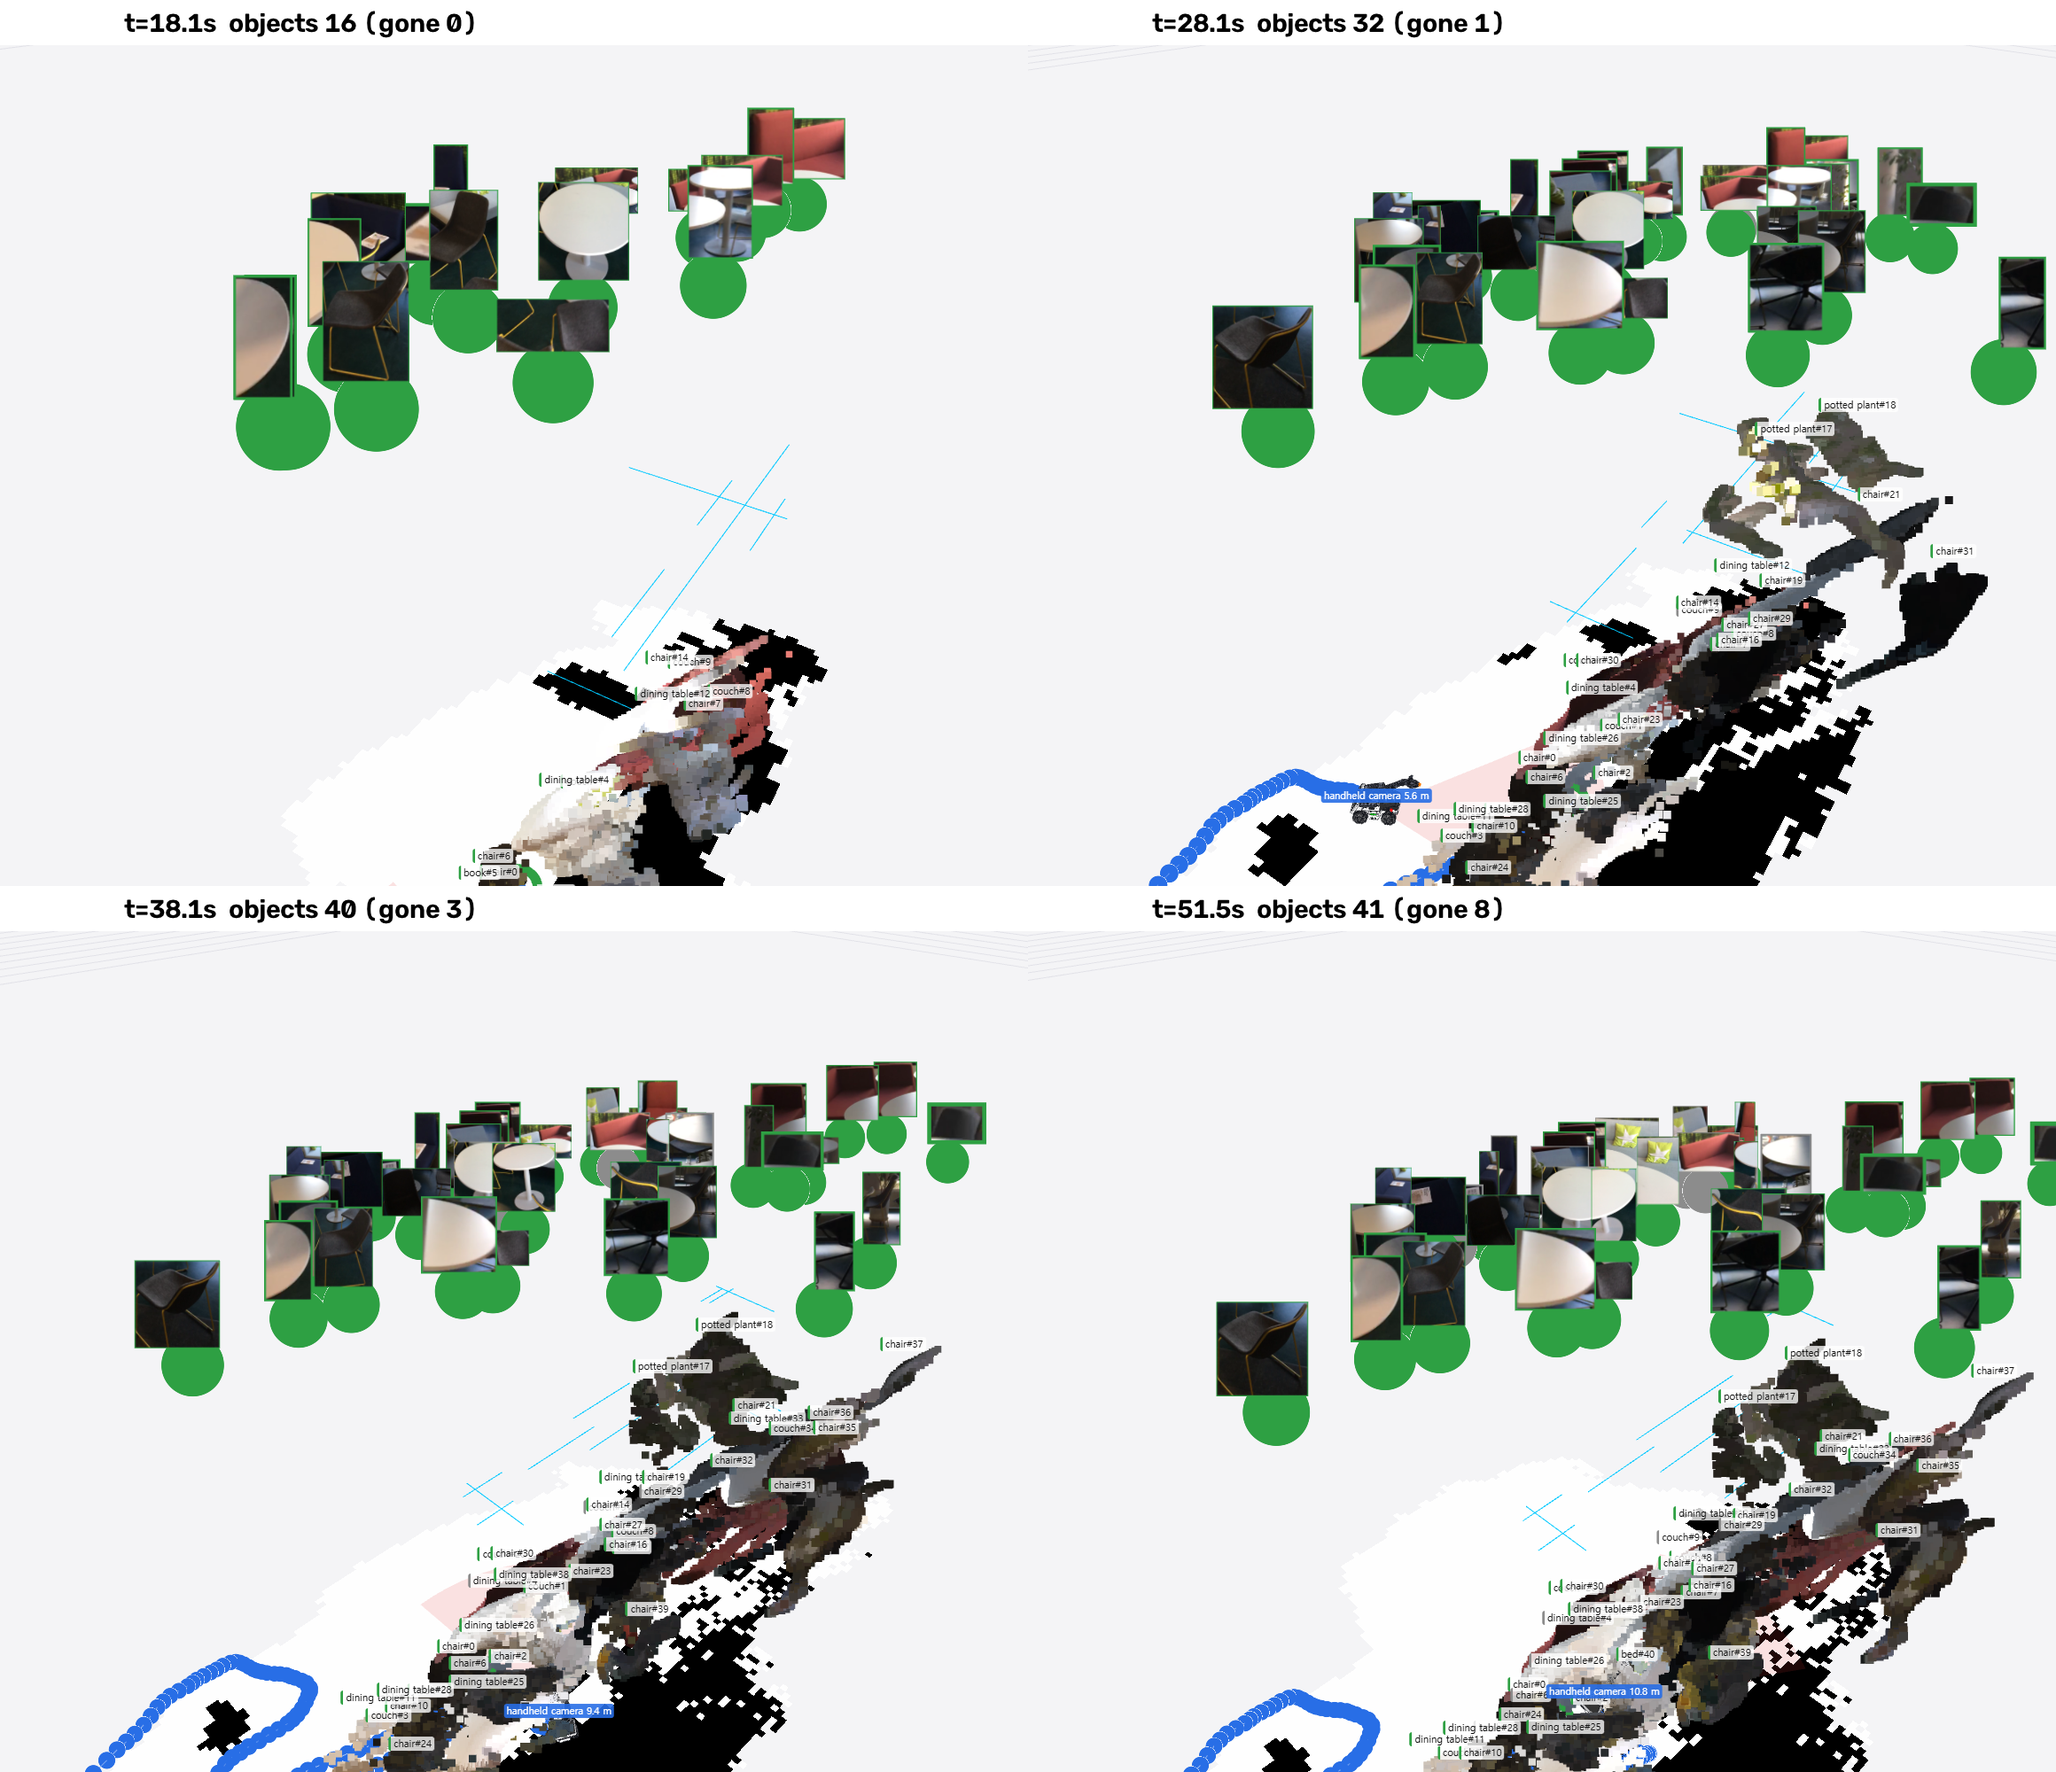
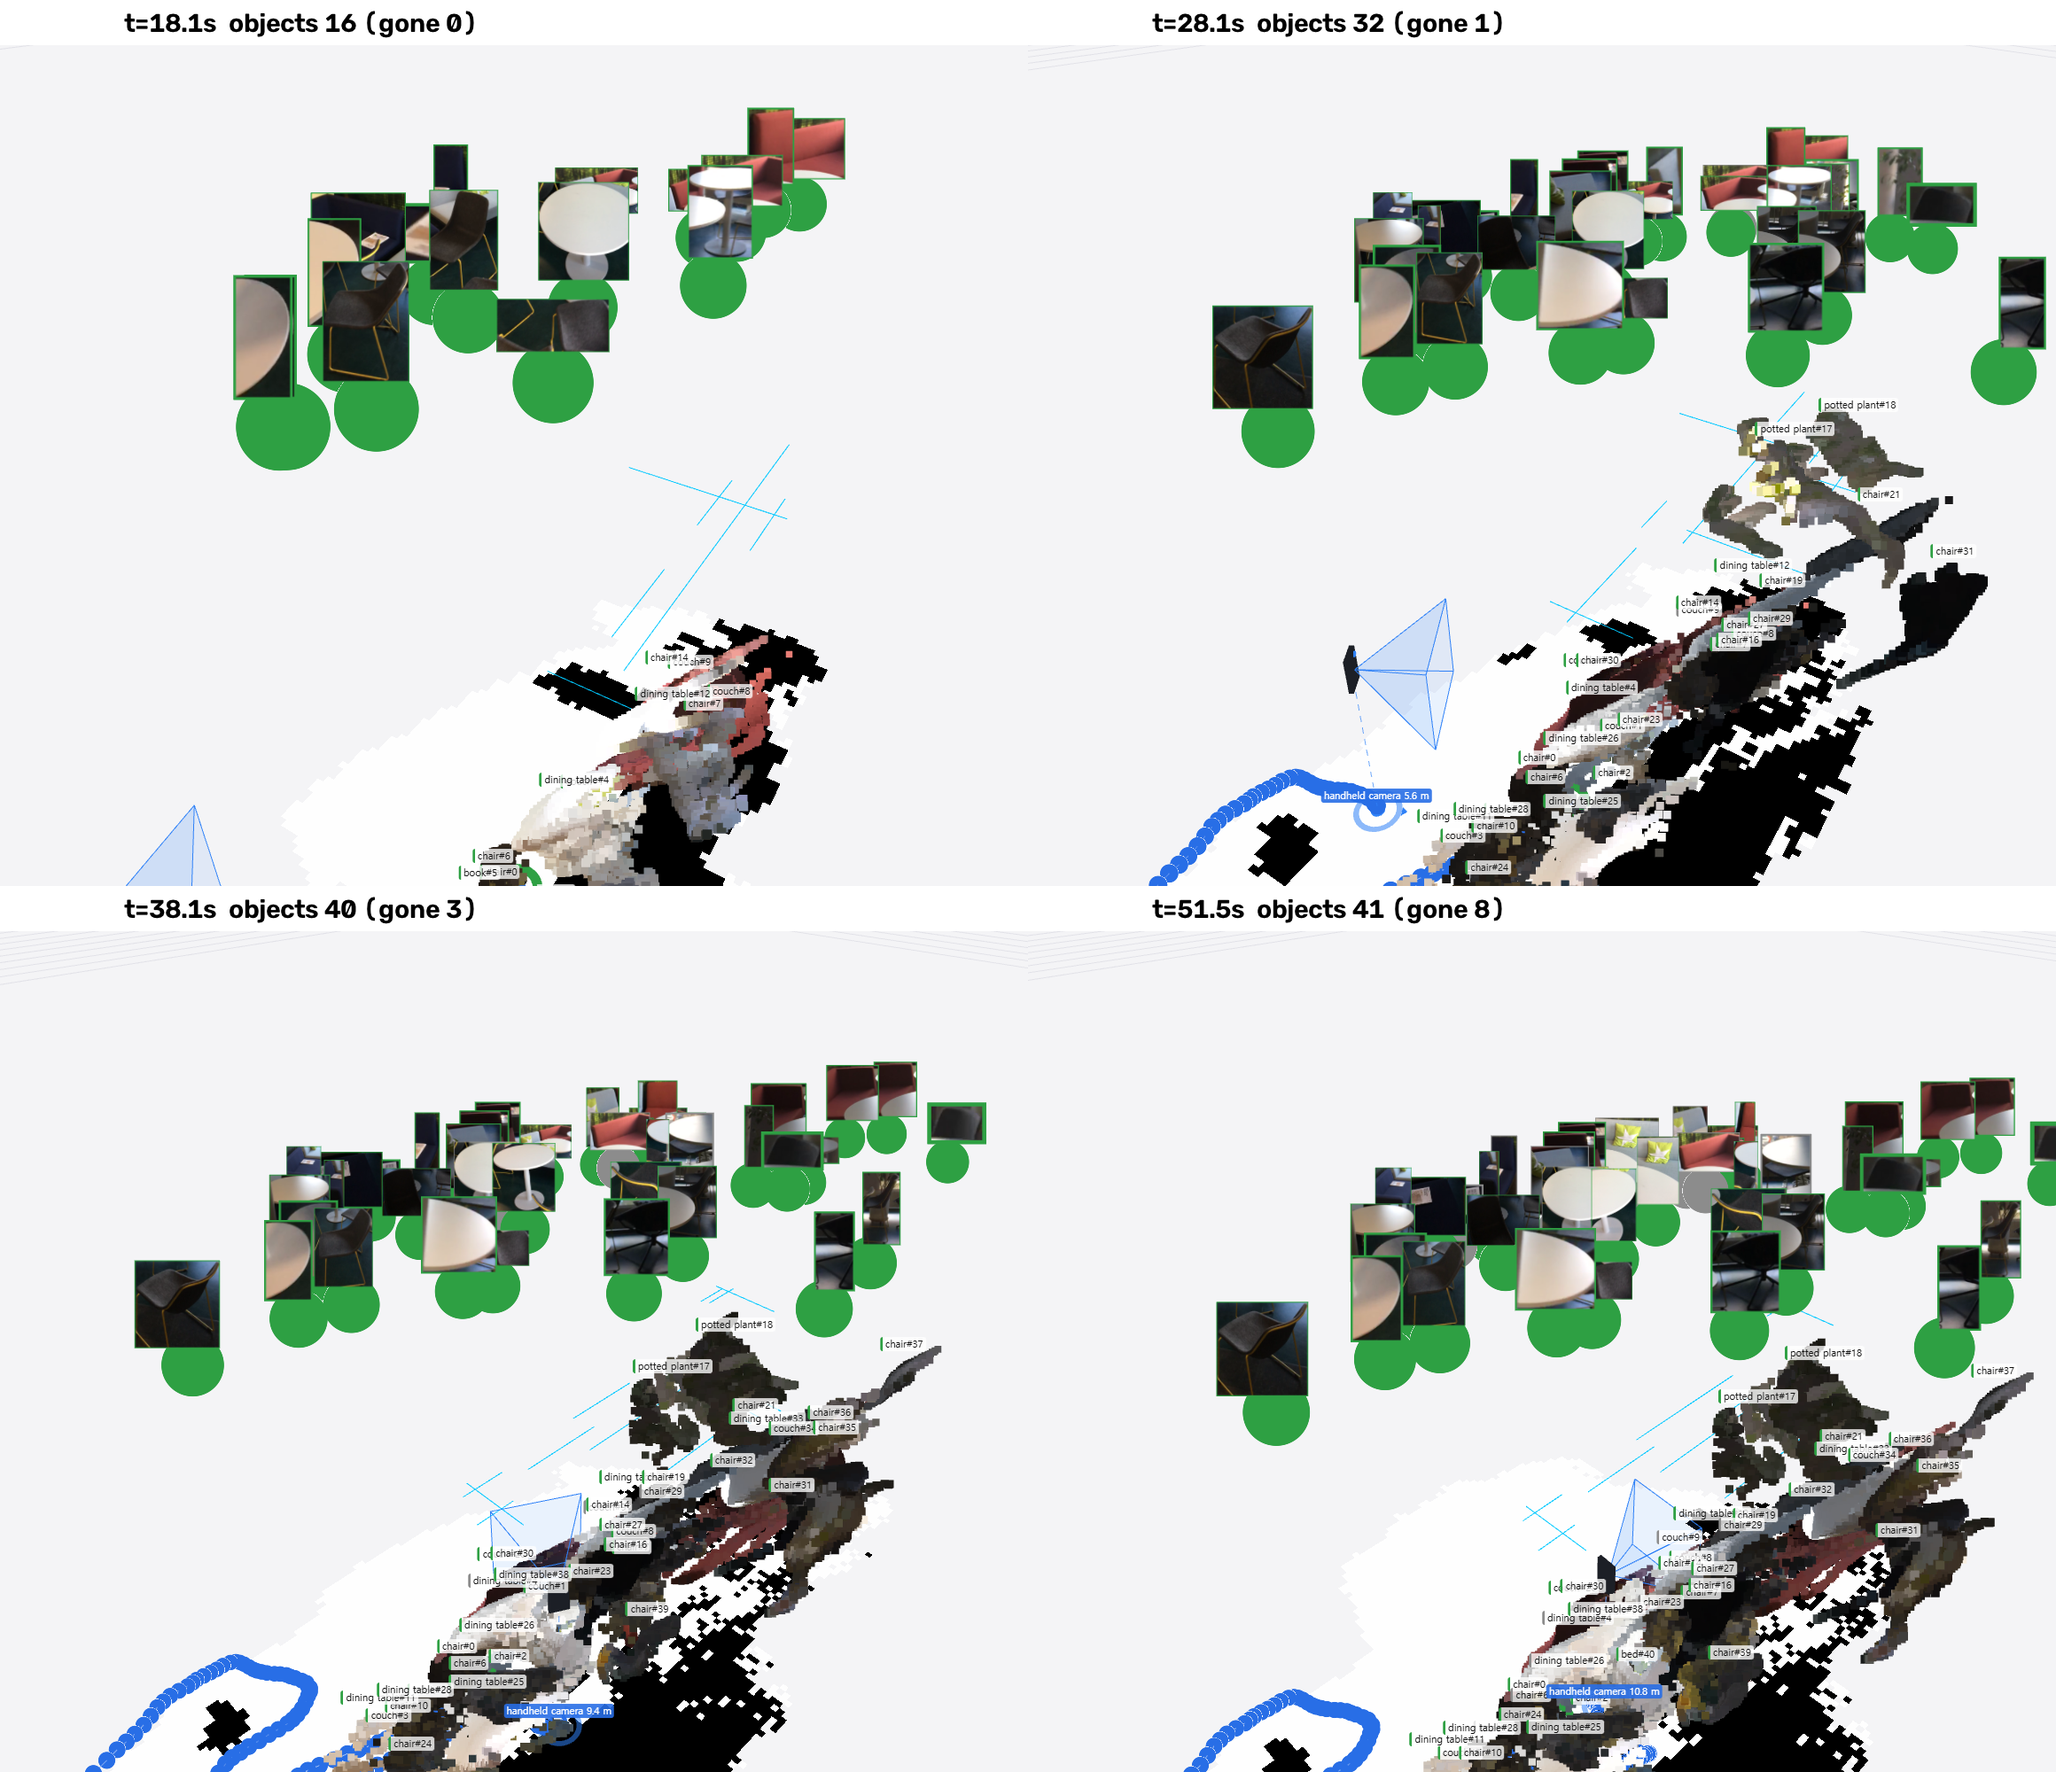
sgview: handheld camera marker (phone + view frustum + floor ring) instead of LIMO when robot is handheld

diff --git a/viewer/sgview/assets/index.html b/viewer/sgview/assets/index.html
@@ -849,7 +849,7 @@ function buildJointPanel() {
     panel.appendChild(row);
     $("js_" + n).oninput = e => { jointVal[n] = +e.target.value; setJoints({ [n]: jointVal[n] }); };
   }
-  $("jdetails").style.display = "";
+  if (!isHandheld()) $("jdetails").style.display = "";
   $("j_home").onclick = () => setJoints(robotModel.home);
 }
 function syncJointPanel() {
@@ -907,7 +907,7 @@ $("c_follow").onchange = () => {
 $("j_clear").onclick = clearEE;
 
 function attachRobotModel() {
-  if (!robotModel || !robotGrp) return;
+  if (!robotModel || !robotGrp || isHandheld()) return;
   robotGrp.remove(...robotGrp.children.filter(c => c.userData.fallback));   // the box/cone stand-in goes away
   if (!robotModel.root.parent) robotGrp.add(robotModel.root);
   robotModel.root.scale.setScalar(opt("n_rscale"));
@@ -1003,9 +1003,39 @@ function onPoseEvent(d) {
   invalidate();
 }
 
+// Handheld camera (view.json "robot": "handheld"): a phone with a view frustum at hand height, a drop line and a floor ring,
+// instead of the LIMO model.
+const isHandheld = () => /handheld/.test((view && view.robot) || "");
+function buildHandheld() {
+  const H = (view && view.cam_h) || 1.4, g = new THREE.Group(), ACC = 0x2f81f7;
+  const phone = new THREE.Mesh(new THREE.BoxGeometry(0.02, 0.09, 0.17), new THREE.MeshBasicMaterial({ color:0x1c1f26 }));
+
+  const lens = new THREE.Mesh(new THREE.CylinderGeometry(0.012, 0.012, 0.006, 20), new THREE.MeshBasicMaterial({ color:ACC }));
+  lens.rotation.z = Math.PI / 2; lens.position.set(0.013, 0.025, 0.06);
+  const L = 0.35, hw = L * Math.tan(Math.PI / 6), hh = hw * 16 / 9 * 0.56;   // portrait frustum, ~60° wide
+  const apex = new THREE.Vector3(0.012, 0, 0), c = [[L, -hw, -hh], [L, hw, -hh], [L, hw, hh], [L, -hw, hh]].map(p => new THREE.Vector3(...p));
+  const fg = new THREE.BufferGeometry(); fg.setFromPoints([apex, c[0], c[1], apex, c[1], c[2], apex, c[2], c[3], apex, c[3], c[0]]);
+  const faces = new THREE.Mesh(fg, new THREE.MeshBasicMaterial({ color:ACC, transparent:true, opacity:0.10, side:THREE.DoubleSide, depthWrite:false }));
+  const eg = new THREE.BufferGeometry(); eg.setFromPoints([apex, c[0], apex, c[1], apex, c[2], apex, c[3], c[0], c[1], c[1], c[2], c[2], c[3], c[3], c[0]]);
+  const edges = new THREE.LineSegments(eg, new THREE.LineBasicMaterial({ color:ACC }));
+  const dg = new THREE.BufferGeometry(); dg.setFromPoints([new THREE.Vector3(0, 0, H - 0.09), new THREE.Vector3(0, 0, 0.01)]);
+  const drop = new THREE.Line(dg, new THREE.LineDashedMaterial({ color:ACC, dashSize:0.06, gapSize:0.05, transparent:true, opacity:0.7 }));
+  drop.computeLineDistances();
+  const ring = new THREE.Mesh(new THREE.RingGeometry(0.13, 0.17, 40), new THREE.MeshBasicMaterial({ color:ACC, transparent:true, opacity:0.55, side:THREE.DoubleSide, depthWrite:false }));
+  ring.position.z = 0.012;
+  const dot = new THREE.Mesh(new THREE.CircleGeometry(0.05, 24), new THREE.MeshBasicMaterial({ color:ACC }));
+  dot.position.z = 0.013;
+  const arrow = new THREE.Shape(); arrow.moveTo(0.21, 0); arrow.lineTo(0.17, 0.035); arrow.lineTo(0.17, -0.035); arrow.lineTo(0.21, 0);
+  const head = new THREE.Mesh(new THREE.ShapeGeometry(arrow), new THREE.MeshBasicMaterial({ color:ACC, side:THREE.DoubleSide }));
+  head.position.z = 0.013;
+  const cam = new THREE.Group(); cam.add(phone, lens, faces, edges); cam.position.z = H; cam.scale.setScalar(1.6);   // the phone is tiny at room scale
+  g.add(cam, drop, ring, dot, head);
+  return g;
+}
 function buildRobot() {
   if (robotModel && robotModel.root.parent) robotModel.root.parent.remove(robotModel.root);   // keep the loaded model alive across rebuilds
   disposeGroup(gRobot);
+  if (isHandheld()) { robotGrp = buildHandheld(); gRobot.add(robotGrp); gRobot.visible = opt("c_robot"); return; }
   const body = new THREE.Mesh(new THREE.BoxGeometry(0.32, 0.22, 0.1), new THREE.MeshBasicMaterial({ color:0x2a2a30 }));
   body.position.set(0, 0, 0.07);
   const nose = new THREE.Mesh(new THREE.ConeGeometry(0.07, 0.16, 16), new THREE.MeshBasicMaterial({ color:0xe03030 }));
